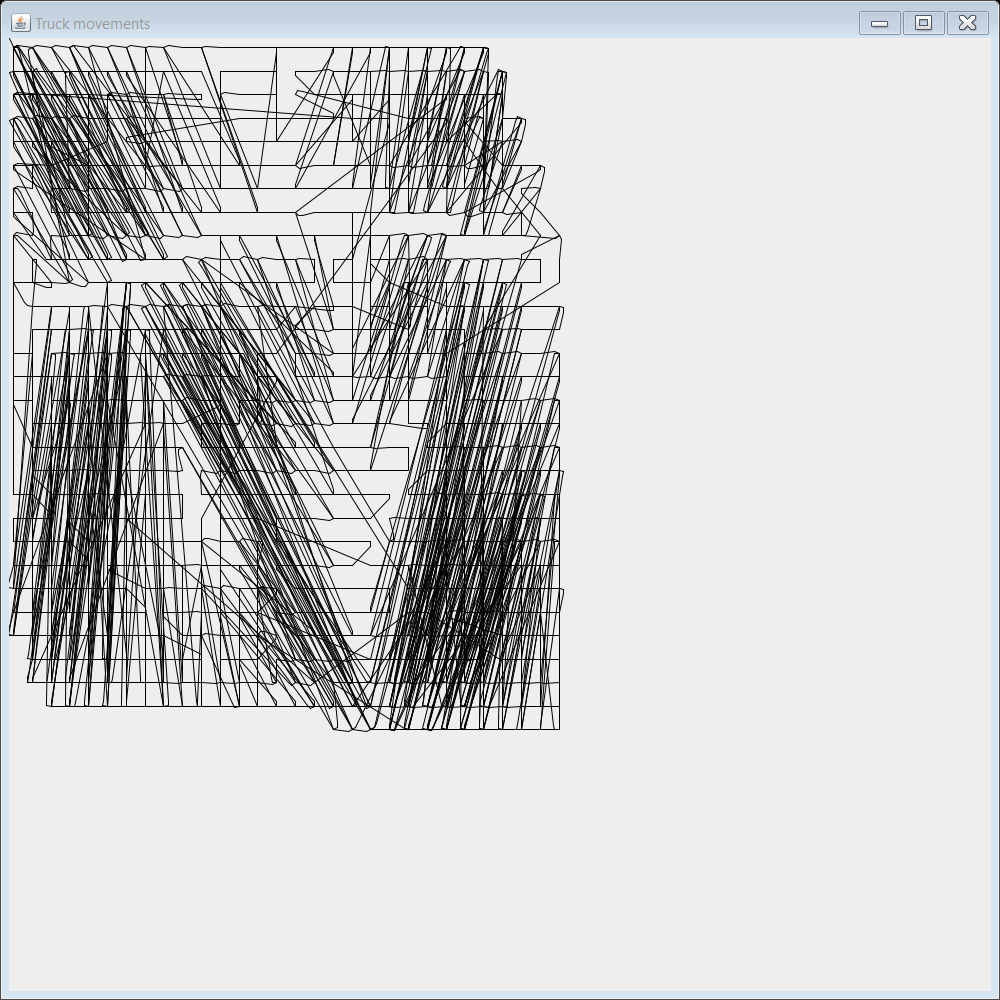
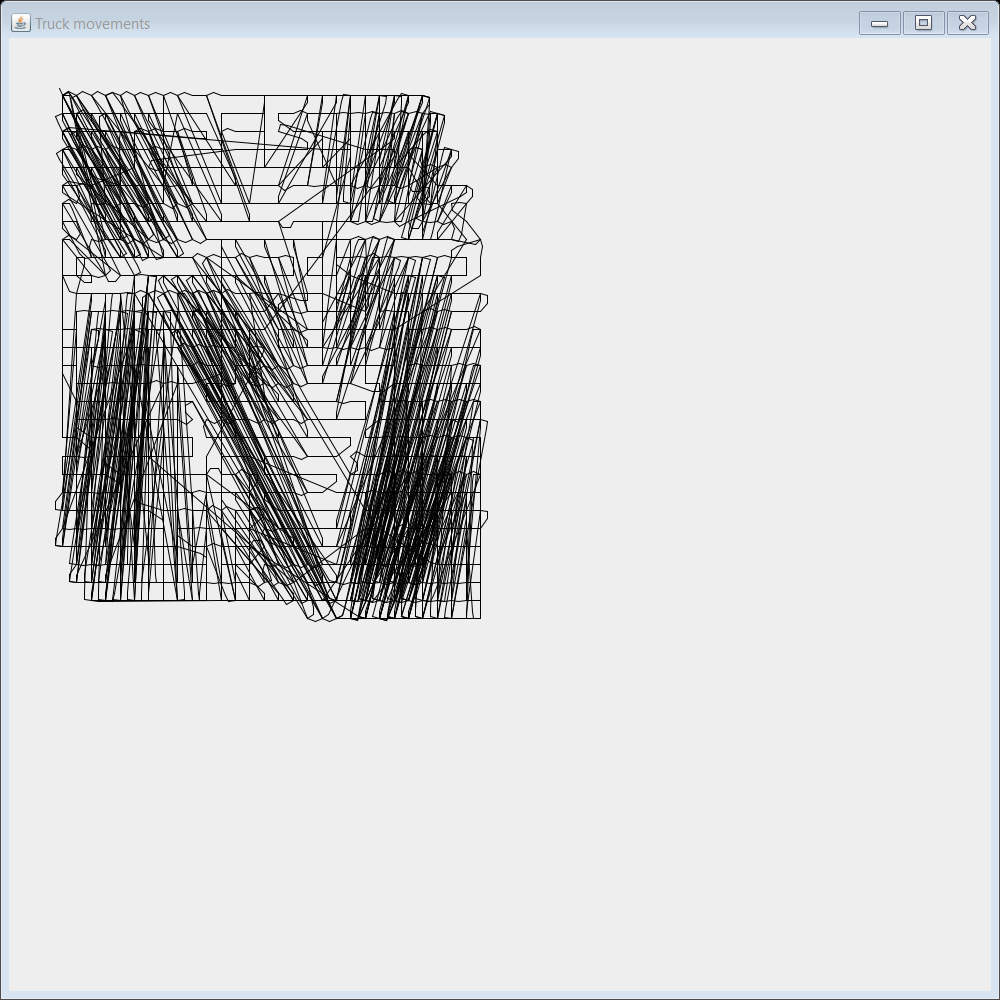
shiftX and shiftY attributes

Changed region(s): [[0.0, 0.031, 0.558, 0.744]]

diff --git a/src/PathPrinter.java b/src/PathPrinter.java
@@ -16,12 +16,14 @@ public class PathPrinter extends JFrame {
 	private class Printer extends JComponent {
 		
 		Path path;
-		double multiplierX, multiplierY;
+		double multiplierX, multiplierY, shiftX, shiftY;
 		
-		public Printer(Path path, double multiplierX, double multiplierY) {
+		public Printer(Path path, double multiplierX, double multiplierY, double shiftX, double shiftY) {
 			this.path = path;
 			this.multiplierX = multiplierX;
 			this.multiplierY = multiplierY;
+			this.shiftX = shiftX;
+			this.shiftY = shiftY;
 		}
 		
 		@Override
@@ -32,7 +34,10 @@ public class PathPrinter extends JFrame {
 			g2D.setPaint(Color.BLACK);
 			
 			for(int i = 1; i < path.length(); i ++)
-				g2D.draw(new Line2D.Double(path.getCoordinates(i - 1).x * multiplierX, path.getCoordinates(i - 1).y * multiplierY, path.getCoordinates(i).x * multiplierX, path.getCoordinates(i).y * multiplierY));
+				g2D.draw(new Line2D.Double(path.getCoordinates(i - 1).x * multiplierX + shiftX, 
+											path.getCoordinates(i - 1).y * multiplierY + shiftY, 
+											path.getCoordinates(i).x * multiplierX + shiftX, 
+											path.getCoordinates(i).y * multiplierY + shiftY));
 		}
 	}
 	
@@ -42,13 +47,13 @@ public class PathPrinter extends JFrame {
 		setDefaultCloseOperation(HIDE_ON_CLOSE);
 	}
 	
-	public void print(Path path, double multiplierX, double multiplierY) {
+	public void print(Path path, double multiplierX, double multiplierY, double shiftX, double shiftY) {
 		setVisible(true);
-		add(new Printer(path, multiplierX, multiplierY));
+		add(new Printer(path, multiplierX, multiplierY, shiftX, shiftY));
 	}
 	
-	public void print(Path path, double multiplierX, double multiplierY, String fileName) throws IOException {
-		print(path, multiplierX, multiplierY);
+	public void print(Path path, double multiplierX, double multiplierY, double shiftX, double shiftY, String fileName) throws IOException {
+		print(path, multiplierX, multiplierY, shiftX, shiftY);
 		BufferedImage img = new BufferedImage(getWidth(), getHeight(), BufferedImage.TYPE_INT_RGB);
 		Graphics2D g2d = img.createGraphics();
 		printAll(g2d);

diff --git a/src/Main.java b/src/Main.java
@@ -19,8 +19,8 @@ public class Main {
 				
 				Path path = new Solver(field, truck).solve();
 				
-				//new PathPrinter().print(path, 3.0, 3.0, "PathPrinted\\PATH_cellplot" + inputCode + "b_" + capacity + "_.png");
-				new PathPrinter().print(path, 3.0, 3.0);
+				//new PathPrinter().print(path, 2.3, 2.3, 50.0, 50.0, "PathPrinted\\PATH_cellplot" + inputCode + "b_" + capacity + "_.png");
+				//new PathPrinter().print(path, 2.3, 2.3, 50.0, 50.0);
 				
 				long stop = System.currentTimeMillis();
 				
